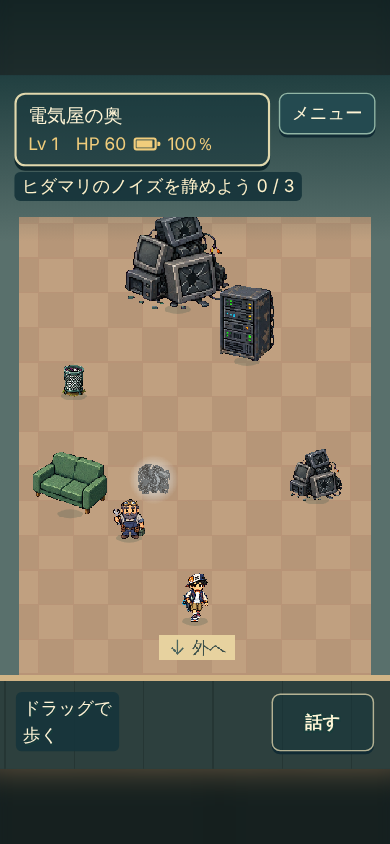
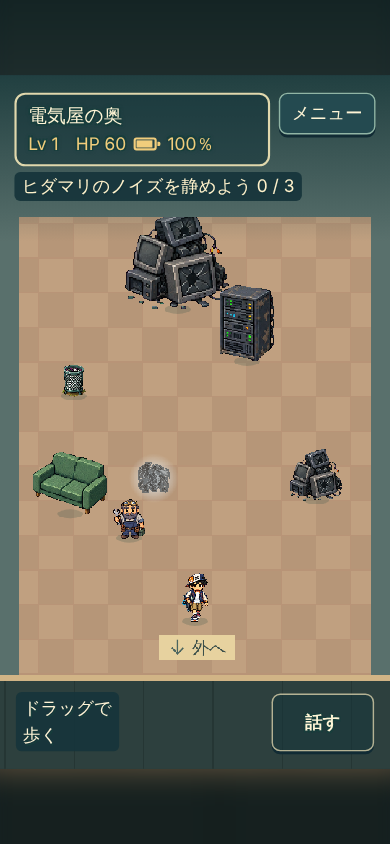
R538: 縦に動く部屋だけを覆い、コンビニのような短い部屋の壁は残した

Changed region(s): [[0.0308, 0.1848, 0.6769, 0.2156], [0.3385, 0.5237, 0.4308, 0.5853]]

diff --git a/v5/index.html b/v5/index.html
@@ -939,8 +939,8 @@ function roomSurround(m){if(m.outside){roomFill=null;return;}const c=roomColors(
 // R537: my room and the library (14 rows) are only 26px taller than the band, so the camera scrolled them a little and the wall's top edge sat right on the goal strip, peeking out beside it. A room at most one tile taller than the band now stays still with its top 12px under the HUD line (the 22px gap a short centred room like the store gets); its last row reaches about 38px into the bottom margin, beside the buttons. Taller rooms still scroll and stop with their top at the same place.
 const ROOM_TOP_GAP=12;let roomTopCover=0;
 // R538: a tall room (the back of the electric shop) scrolled its floor up under the top HUD, so the goal strip and the place card sat on the checkered floor while every other room shows its wall with a gap there.
-// Now, while such a room is scrolled down, the part above the room's top line (hudTop+ROOM_TOP_GAP) is covered with the room's surround colour, the same colour as beside the room, so the floor ends there like the room's side edges.
-function coverRoomTop(m){roomTopCover=0;if(m.outside||!roomFill)return;const cap=hudTop+ROOM_TOP_GAP;if(roomFill.top>=cap)return;rect(0,0,W,cap,roomColors(m).wall);roomTopCover=cap;}
+// Only a room that scrolls (more than one tile taller than the band) is covered; short centred rooms like the store keep their whole top wall. Now, while such a room is scrolled down, the part above the room's top line (hudTop+ROOM_TOP_GAP) is covered with the room's surround colour, the same colour as beside the room, so the floor ends there like the room's side edges.
+function coverRoomTop(m){roomTopCover=0;if(m.outside||!roomFill||m.h*TILE<=H-hudTop-HUD_BOTTOM+TILE)return;const cap=hudTop+ROOM_TOP_GAP;if(roomFill.top>=cap)return;rect(0,0,W,cap,roomColors(m).wall);roomTopCover=cap;}
 function drawField(){const m=GAME_DATA.maps[g.map];fieldSignRects=[];fieldSignMap=g.map;if(gameTime>=hudMeasureAt){hudMeasureAt=gameTime+400;measureHud();}rect(0,0,W,H,m.outside?'#6f9b7e':'#344f4d');camera.x=m.w*TILE<W?(m.w*TILE-W)/2:Math.max(0,Math.min(m.w*TILE-W,g.x-W/2));const band=H-hudTop-HUD_BOTTOM,mh=m.h*TILE;camera.y=mh<=band?(mh-band)/2-hudTop:!m.outside&&mh<=band+TILE?-hudTop-ROOM_TOP_GAP:Math.max(-hudTop+(m.outside?20:-ROOM_TOP_GAP),Math.min(mh-H+HUD_BOTTOM,g.y-hudTop-band*.55));ctx.save();ctx.translate(-Math.round(camera.x),-Math.round(camera.y));roomSurround(m);ground(m);
  for(const o of m.objects)if(o.floor&&!o.hidden)sprite(o.kind,o.frame,o.x*TILE,o.y*TILE,o.w,o.h,(g.mode==='adult'&&o.labelAdult||o.label));
  // R226: in the own room the ↓ plate sat on the middle of the stairs picture and hid the stairwell; the stairs themselves mark the way out, so no plate is drawn there.
